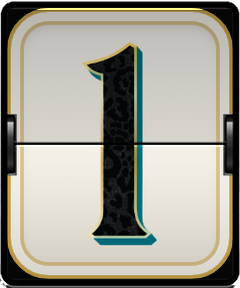
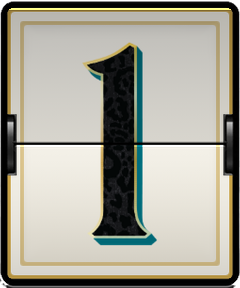
Standings (BBP): squared split-flap seed tiles, flat (no shadow)
- ranknum/r1-12.webp: squared set with housing buffer, cropped to the tile edge, lossless and
  bit-identical to the master (WebP exact mode keeps colour under transparent pixels)
- Shadow removed from the seed tiles (standings and Team Hub)

Claude-Session: https://claude.ai/code/session_01WQLdFQZ8MkKnuqWv7ZmMze

diff --git a/pipeline/readability.css b/pipeline/readability.css
@@ -819,11 +819,11 @@ header h1{white-space:nowrap}h1 .lgs{display:inline-block;width:auto;margin-left
 }
 /* BBP seed tiles: split-flap set (ranknum/r1-12.webp, cropped to the tile edge). Every tile is exactly the logo's height
    (--ravh), top and bottom level with the logo; centred in one slot as wide as the widest tile (10, 280:288), so the
-   logos line up down the board. Shadow matches the logo's (hard 2px/2px offset + soft blur). */
+   logos line up down the board. Flat, no shadow: the housing buffer already reads as depth (mechanical scoreboard). */
 .board .r{--rks:calc(var(--ravh)*280/288)}
 .board .r{grid-template-columns:calc(var(--rks) + 8px + var(--ravc,var(--ravh))) minmax(0,1fr) 84px 78px}
 @media(max-width:380px){.board .r{grid-template-columns:calc(var(--rks) + 6px + var(--ravc,var(--ravh))) minmax(0,1fr) 72px 78px}}
 .board .r>.rk .rkn{flex:0 0 var(--rks)!important;height:var(--ravh)!important;display:flex;align-items:center;justify-content:center}
-.board .rni.p,.board .rni.g,.board .rni.w{height:var(--ravh);width:auto;margin:0;filter:drop-shadow(2px 2px 0 rgba(0,0,0,.55)) drop-shadow(2px 2px 5px rgba(0,0,0,.3))}
+.board .rni.p,.board .rni.g,.board .rni.w{height:var(--ravh);width:auto;margin:0;filter:none}
 .tqid .tqsd.rnh{height:44px;width:auto}
-.tqid .rni.p,.tqid .rni.g,.tqid .rni.w{height:44px;width:auto;margin:0;filter:drop-shadow(2px 2px 0 rgba(0,0,0,.55)) drop-shadow(2px 2px 5px rgba(0,0,0,.3))}
+.tqid .rni.p,.tqid .rni.g,.tqid .rni.w{height:44px;width:auto;margin:0;filter:none}

diff --git a/CLAUDE.md b/CLAUDE.md
@@ -60,7 +60,7 @@ Two sister sites built by the same pipeline. This file is identical in both repo
 
 - **Board and tiers**: one card (`#list.board`); each tier is a plain `section.tcard` (built in `draw()`). Rows run edge to edge in alternating shades (first row of each tier lighter, `rgba(238,240,244,.055)`). Between tiers a ticket-style tear line: dotted perforation across the card with a semicircle notch bitten out of each edge, then the tier name / seeds / Line. Nicklaus rejected a coloured bar along the card top (looks generic). The class `.tg` is taken (toggle groups).
 - **Desktop (>=1100px)**: one team per row. Left: rank, logo, name, Opp/All-play/Luck, PF, PA, record column (`102px 270px 84px 78px`); right column (after a thin divider): Tot Eff, Dropped pts + Season sim, season chart, stacked by `nrdFit` (all three share one grid cell spanning to a final `1fr` row, so the right stack never stretches the left rows). The left side is identical in Dumb and Nerd.
-- Row: rank numeral art (BBP: split-flap tiles `ranknum/r1-12.webp`, white seeds 1-2, dark gold 3-6, pewter 7+, lossless, cropped to the tile edge; every tile = the logo's height `--ravh`, centred in one slot `--rks` as wide as the 10 tile (280:288) so logos align; Team Hub uses the same tiles at 44px) + logo 50px (44 ≤380; BBP shadow: 1px ring + identical circle offset 2px/2px + blur at same offset) + name block + right column: W-L record (35.1px; 29.7px for 4-digit records), last-5 dots, streak tile on its own row under the dots (height = the record's cap at 26px), then Could have / Breakdown (shown in Dumb and Nerd; label cap top level with the first stat line clear of the tile, via `rrFit`). Games back and the Leader label were removed 2026-11-03.
+- Row: rank numeral art (BBP: split-flap tiles, SQUARED set with housing buffer (`ranknum/r1-12.webp`), white seeds 1-2, dark gold 3-6, pewter 7+, lossless (WebP `exact=True`, bit-identical to the master), cropped to the tile edge, flat (no shadow: mechanical scoreboard look); every tile = the logo's height `--ravh`, centred in one slot `--rks` as wide as the 10 tile (280:288) so logos align; Team Hub uses the same tiles at 44px) + logo 50px (44 ≤380; BBP shadow: 1px ring + identical circle offset 2px/2px + blur at same offset) + name block + right column: W-L record (35.1px; 29.7px for 4-digit records), last-5 dots, streak tile on its own row under the dots (height = the record's cap at 26px), then Could have / Breakdown (shown in Dumb and Nerd; label cap top level with the first stat line clear of the tile, via `rrFit`). Games back and the Leader label were removed 2026-11-03.
 - Name block: name (cap top level with logo top) + ▲/▼ change; under it the **FAAB tile** (raised, same shadow depth as the logo; "FAAB" label to its right; tap opens The Wire). YILM: manager nickname under the FAAB line.
 - FAAB data: `pull.mjs faab` → `pull_faab.json` (BBP; run in weekly and live), `season_replay.py` writes it for YILM from the capture; `rebuild.py` emits `FAABB, FAABL, FAABR, FAAB` (current season only); the page re-reads Sleeper rosters on load (`waiver_budget − waiver_budget_used`).
 - Stat lines: Opp rk / All-play / Luck (+ grey `n.nn xW` = all-play win rate × games; luck = wins − xW). PF and PA alabaster with grey `/wk`; dots green only (no gold for #1; the tile shows 1 in gold).
